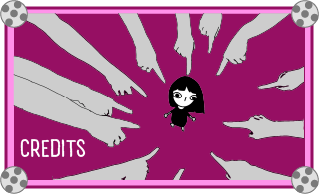
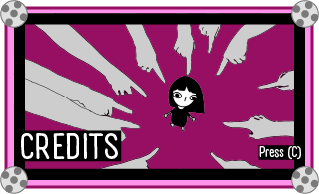
added credits and timing on fight scene

Changed region(s): [[0.0282, 0.0619, 0.9592, 0.9278]]

diff --git a/src/scenes/Map.js b/src/scenes/Map.js
@@ -23,7 +23,7 @@ class Map extends Phaser.Scene {
 
         this.load.image('windfight', 'windmill-fight.png')
         this.load.image('waterfight', 'waterfountain-fight.png')
-        this.load.image('credits', 'credits-textbox')
+        this.load.image('credits', 'credits-textbox.png')
         this.load.image('instructions', 'instructions.png')
     }
 
@@ -127,19 +127,26 @@ class Map extends Phaser.Scene {
         this.windfight = this.add.image(textboxX, textboxY, 'windfight')
                             .setScrollFactor(0)
                             .setDepth(100)
-                            .setOrigin(0.5, 0.5); // center the sprite
+                            .setOrigin(0.5, 0.5)
         this.windfight.setVisible(false);
 
         this.waterfight = this.add.image(textboxX, textboxY, 'waterfight')
                             .setScrollFactor(0)
                             .setDepth(100)
-                            .setOrigin(0.5, 0.5); // center the sprite
+                            .setOrigin(0.5, 0.5)
         this.waterfight.setVisible(false);
 
         this.instructions = this.add.image(textboxX, textboxY, 'instructions')
                             .setScrollFactor(0)
                             .setDepth(100)
-                            .setOrigin(0.5, 0.5); // center the sprite
+                            .setOrigin(0.5, 0.5)
+
+        this.creditsbox = this.add.image(textboxX, textboxY, 'credits')
+                            .setScrollFactor(0)
+                            .setDepth(100)
+                            .setOrigin(0.5, 0.5)
+        this.creditsbox.setVisible(false);
+
 
         // Listen for any keydown event
         this.bgMusic = this.sound.add('bgmusic', { volume: 0.3, loop: true })
@@ -197,13 +204,20 @@ class Map extends Phaser.Scene {
                 this.scene.start("waterfountain")
             }
 
-        } else if (this.physics.overlap(this.ace, this.rectangle2)) {
+        } else if (this.physics.overlap(this.ace, this.lineB)) {
+            this.creditsbox.setVisible(true)
+            if(Phaser.Input.Keyboard.JustDown(this.keys.CKey)) {
+                this.scene.start("credits")
+            }
+
+        }else if (this.physics.overlap(this.ace, this.rectangle2)) {
              this.instructions.setVisible(true)
         
         } else {
             this.windfight.setVisible(false)
             this.waterfight.setVisible(false)
             this.instructions.setVisible(false)
+            this.creditsbox.setVisible(false)
 
             this.bossTheme = false
             this.bgMusic.setVolume(0.3)

diff --git a/src/scenes/Credits.js b/src/scenes/Credits.js
@@ -29,15 +29,19 @@ class Credits extends Phaser.Scene {
         }
 
         let textLines = [
-            'Into The Distance',
-            'Use the arrow keys to move!',
-            'Make sure to avoid the trees to keep riding.',
-            'Press an arrow key to start!',
-            'You have 60 seconds!'
+            'Hello! This is my recreation of the game Golf Quest Mini',
+            'shown on Steven Universe Season 1 Episode 19.',
+            'All art is done by me based on the concept art provided on the Steven Universe Wiki.',
+            'The background music you hear is Cigarette Boat by Marc Torch',
+            'and the other sound assets are through itch.io or made by me.',
+            'I used the fonts A Day Without Sun from Zetafont',
+            'and Moon Flower by Denise Bentulan on Fontspace.',
+            'For the code, I referenced in class coding examples as well as my old project code!',
+            'I hope you enjoy the game :)'
         ]
 
         // Call typewriteText for each line
-        this.typewriteTextLines(757 / 2, 640 / 5, textLines, menuConfig)
+        this.typewriteTextLines(757 / 2, 400 / 7, textLines, menuConfig)
     }
 
     typewriteTextLines(x, y, lines, config) {
@@ -60,7 +64,7 @@ class Credits extends Phaser.Scene {
                     displayText = ''
 
                     if (lineIndex < lines.length) {
-                        textObject = this.add.text(x, y + 64 * lineIndex, '', config).setOrigin(0.5)
+                        textObject = this.add.text(x, y + 30 * lineIndex, '', config).setOrigin(0.5)
                     } else {
                         this.time.removeAllEvents()
                     }

diff --git a/src/scenes/Title.js b/src/scenes/Title.js
@@ -12,13 +12,13 @@ class Title extends Phaser.Scene {
         // backgrounds
         this.load.image('loadscreen', 'loadscreen.png')
         this.load.image('button', 'start_button.png')
-        this.load.image('credits', 'creditsbutton.png')
+        this.load.image('credit', 'creditsbutton.png')
     }
 
     create() {
         this.add.image(0, 0, 'loadscreen').setOrigin(0).setScale(0.5);
         this.button = this.add.image(378, 460, 'button').setVisible(false).setScale(0.85)
-        this.add.image(787, 670, 'credits').setOrigin(1, 1).setScale(1)
+        this.add.image(787, 670, 'credit').setOrigin(1, 1).setScale(1)
         //this.add.Text(centerX, centerY, 'arial', 'Press SPACE to start', 16).setOrigin(0.5)
         this.cursors = this.input.keyboard.createCursorKeys()
 

diff --git a/src/scenes/WindmillFight.js b/src/scenes/WindmillFight.js
@@ -131,7 +131,7 @@ class WindmillFight extends Phaser.Scene {
         })
 
         this.mashCount = 0
-        this.target = 2
+        this.target = 24
         this.mashTimer = 3000
         this.successCount = 0
 
@@ -225,7 +225,7 @@ class WindmillFight extends Phaser.Scene {
             this.popupImage.setVisible(true)
             console.log("You won!") // Debugging message
         } else {
-            this.time.delayedCall(5000, this.pickRandomFunction, [], this)
+            this.time.delayedCall(1000, this.pickRandomFunction, [], this)
         }
     }
 
@@ -236,6 +236,7 @@ class WindmillFight extends Phaser.Scene {
         }
     }
 
+    //this is just for console output
     getKeyCharacter(keyCode) {
         const keyMap = {
             88: 'X',
